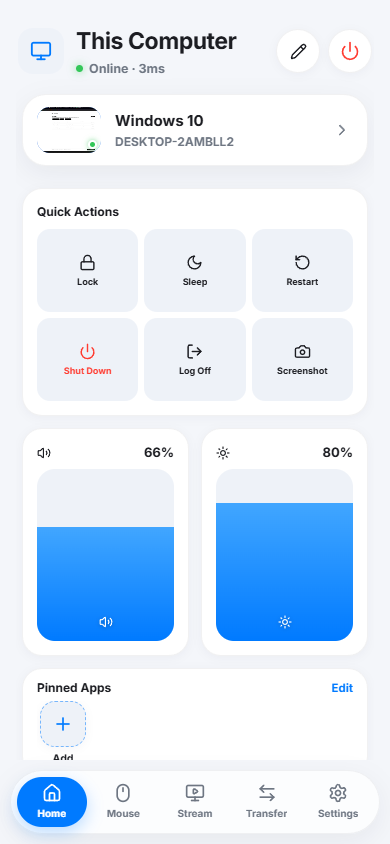
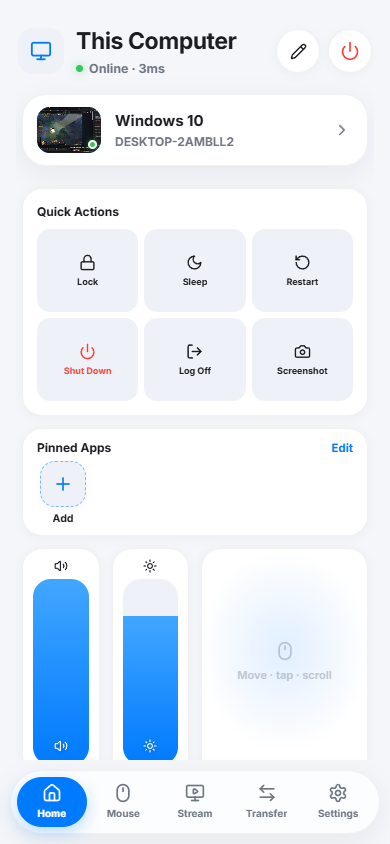
feat(home): iOS-narrow sliders, widget resize, header add button, mouse defaults
- Home grid is now 4 columns; volume/brightness are narrow "slim" pills
  (quarter-width, tall) exactly like iOS Control Center, with a half-tall
  trackpad packing the row beside them in the default layout
- Widgets are resizable: sliders slim<->1x1, trackpad/live-screen 1x2<->2x2,
  stats/shortcuts cycle sizes via the resize badge
- Add Widget moved from the bottom into the Home header (+) so it's reachable
  even when the screen is full
- Mouse panel defaults: scroll wheel bottom-left, keyboard bottom-right
- Layout migration clamps stale sizes; refreshed Home/Mouse screenshots

diff --git a/frontend/src/features/dashboard/widgets/catalog.ts b/frontend/src/features/dashboard/widgets/catalog.ts
@@ -35,19 +35,19 @@ export const WIDGET_CATALOG: WidgetMeta[] = [
   {
     type: 'volume',
     label: 'Volume',
-    description: 'Tall Control-Center-style volume slider',
+    description: 'Narrow Control-Center-style volume slider',
     icon: Volume2,
-    defaultSize: '1x2',
-    allowedSizes: ['1x2'],
+    defaultSize: 'slim',
+    allowedSizes: ['slim', '1x1'],
     singleton: true,
   },
   {
     type: 'brightness',
     label: 'Brightness',
-    description: 'Tall Control-Center-style brightness slider',
+    description: 'Narrow Control-Center-style brightness slider',
     icon: Sun,
-    defaultSize: '1x2',
-    allowedSizes: ['1x2'],
+    defaultSize: 'slim',
+    allowedSizes: ['slim', '1x1'],
     singleton: true,
   },
   {
@@ -74,7 +74,7 @@ export const WIDGET_CATALOG: WidgetMeta[] = [
     description: 'A small live preview of your PC screen',
     icon: MonitorPlay,
     defaultSize: '2x2',
-    allowedSizes: ['2x2'],
+    allowedSizes: ['1x2', '2x2'],
     singleton: true,
   },
   {
@@ -92,7 +92,7 @@ export const WIDGET_CATALOG: WidgetMeta[] = [
     description: 'Mini touchpad — move, tap to click, two-finger scroll',
     icon: Mouse,
     defaultSize: '2x2',
-    allowedSizes: ['2x2'],
+    allowedSizes: ['1x2', '2x2'],
     singleton: true,
   },
   {
@@ -119,10 +119,12 @@ export function getWidgetMeta(type: WidgetInstance['type']): WidgetMeta | undefi
   return WIDGET_CATALOG.find((w) => w.type === type);
 }
 
-/** First-run layout — mirrors what the Dashboard looked like before it became customizable. */
+/** First-run layout: Quick Actions, pinned apps, then the two narrow sliders
+ * with a half-tall trackpad filling the row beside them (packs cleanly, no gaps). */
 export const DEFAULT_LAYOUT: WidgetInstance[] = [
   { id: 'default-quick-actions', type: 'quickActions', size: '2x2' },
   { id: 'default-pinned-apps', type: 'pinnedApps', size: '2x1' },
-  { id: 'default-volume', type: 'volume', size: '1x2' },
-  { id: 'default-brightness', type: 'brightness', size: '1x2' },
+  { id: 'default-volume', type: 'volume', size: 'slim' },
+  { id: 'default-brightness', type: 'brightness', size: 'slim' },
+  { id: 'default-trackpad', type: 'trackpad', size: '1x2' },
 ];

diff --git a/frontend/src/assets/main.css b/frontend/src/assets/main.css
@@ -2124,9 +2124,11 @@ input {
 }
 
 /* ---- Home widget grid ---- */
+/* 4 columns so a quarter-width "slim" slider (iOS Control-Center) fits next to
+   half- and full-width tiles. A visual square spans 2 of the 4 columns. */
 .widget-grid {
   display: grid;
-  grid-template-columns: repeat(2, 1fr);
+  grid-template-columns: repeat(4, 1fr);
   grid-auto-rows: 108px;
   grid-auto-flow: row dense;
   gap: 12px;
@@ -2324,6 +2326,20 @@ input {
   display: flex;
   flex-direction: column;
   gap: 6px;
+}
+
+/* Slim (quarter-width) tiles drop the % text and just show the icon + tall pill,
+   exactly like the iPhone Control Center sliders. */
+.widget-card.slim {
+  padding: 10px;
+}
+
+.widget-card.slim .w-vslider-head {
+  justify-content: center;
+}
+
+.widget-card.slim .w-mini-val {
+  display: none;
 }
 
 .w-vslider-head {

diff --git a/frontend/src/features/dashboard/DashboardTab.tsx b/frontend/src/features/dashboard/DashboardTab.tsx
@@ -43,6 +43,16 @@ export function DashboardTab({ onNavigate }: DashboardTabProps) {
         title={deviceName}
         action={
           <div className="flex items-center gap-2">
+            {editing && (
+              <button
+                type="button"
+                className="h-act"
+                onClick={() => setShowAddWidget(true)}
+                aria-label="Add widget"
+              >
+                <Plus size={20} />
+              </button>
+            )}
             <button
               type="button"
               className={`h-act ${editing ? 'on' : ''}`}
@@ -78,13 +88,6 @@ export function DashboardTab({ onNavigate }: DashboardTabProps) {
         onResize={resizeWidget}
         onNavigateStream={() => onNavigate('stream')}
       />
-
-      {editing && (
-        <button type="button" className="widget-add-tile" onClick={() => setShowAddWidget(true)}>
-          <Plus size={20} />
-          <span>Add Widget</span>
-        </button>
-      )}
 
       {showAddWidget && (
         <AddWidgetSheet

diff --git a/frontend/src/features/dashboard/widgets/HomeGrid.tsx b/frontend/src/features/dashboard/widgets/HomeGrid.tsx
@@ -6,10 +6,11 @@ import { getWidgetMeta } from './catalog';
 import type { WidgetInstance, WidgetSize } from './types';
 
 const SIZE_SPAN: Record<WidgetSize, { col: number; row: number }> = {
-  '1x1': { col: 1, row: 1 },
-  '1x2': { col: 1, row: 2 },
-  '2x1': { col: 2, row: 1 },
-  '2x2': { col: 2, row: 2 },
+  slim: { col: 1, row: 2 },
+  '1x1': { col: 2, row: 1 },
+  '1x2': { col: 2, row: 2 },
+  '2x1': { col: 4, row: 1 },
+  '2x2': { col: 4, row: 2 },
 };
 
 interface HomeGridProps {

diff --git a/frontend/src/features/dashboard/widgets/types.ts b/frontend/src/features/dashboard/widgets/types.ts
@@ -13,7 +13,14 @@ export type WidgetType =
   | 'appShortcut'
   | 'trackpad';
 
-export type WidgetSize = '1x1' | '1x2' | '2x1' | '2x2';
+/** Sizes are expressed against a 4-column grid so a "slim" quarter-width slider
+ * (iOS Control-Center style) is possible alongside half- and full-width tiles.
+ * - slim: 1 col × 2 rows (narrow tall slider)
+ * - 1x1:  2 cols × 1 row (half-width square)
+ * - 1x2:  2 cols × 2 rows (half-width tall)
+ * - 2x1:  4 cols × 1 row (full-width bar)
+ * - 2x2:  4 cols × 2 rows (full-width big) */
+export type WidgetSize = 'slim' | '1x1' | '1x2' | '2x1' | '2x2';
 
 export interface WidgetInstance {
   /** Stable per-instance id — distinct from `type` so the same widget type

diff --git a/frontend/src/features/mouse/buttons/catalog.ts b/frontend/src/features/mouse/buttons/catalog.ts
@@ -14,9 +14,10 @@ export function getMouseButtonMeta(type: MouseButtonInstance['type']): MouseButt
   return MOUSE_BUTTON_CATALOG.find((b) => b.type === type);
 }
 
-/** First-run panel — just the keyboard toggle, matching the reference design. */
+/** First-run panel — scroll wheel anchored bottom-left, keyboard bottom-right. */
 export const DEFAULT_MOUSE_BUTTONS: MouseButtonInstance[] = [
-  { id: 'default-keyboard', type: 'keyboard', x: 50, y: 85 },
+  { id: 'default-scroll', type: 'scrollWheel', x: 14, y: 74 },
+  { id: 'default-keyboard', type: 'keyboard', x: 86, y: 84 },
 ];
 
 const DEFAULT_COLS = 4;

diff --git a/frontend/src/features/dashboard/widgets/WidgetRenderer.tsx b/frontend/src/features/dashboard/widgets/WidgetRenderer.tsx
@@ -24,10 +24,11 @@ export function WidgetRenderer({ instance, editing, onNavigateStream }: WidgetRe
   const isBarePresentation =
     instance.type === 'screenThumbnail' || instance.type === 'macroLauncher' || instance.type === 'appShortcut';
   const extraClass = instance.type === 'pinnedApps' ? 'pinned-apps' : instance.type === 'trackpad' ? 'trackpad' : '';
+  const sizeClass = instance.size === 'slim' ? 'slim' : '';
 
   return (
     <div
-      className={`widget-card ${isBarePresentation ? 'bare' : ''} ${extraClass}`}
+      className={`widget-card ${isBarePresentation ? 'bare' : ''} ${extraClass} ${sizeClass}`}
       style={editing ? { pointerEvents: 'none' } : undefined}
     >
       {renderContent(instance, onNavigateStream)}